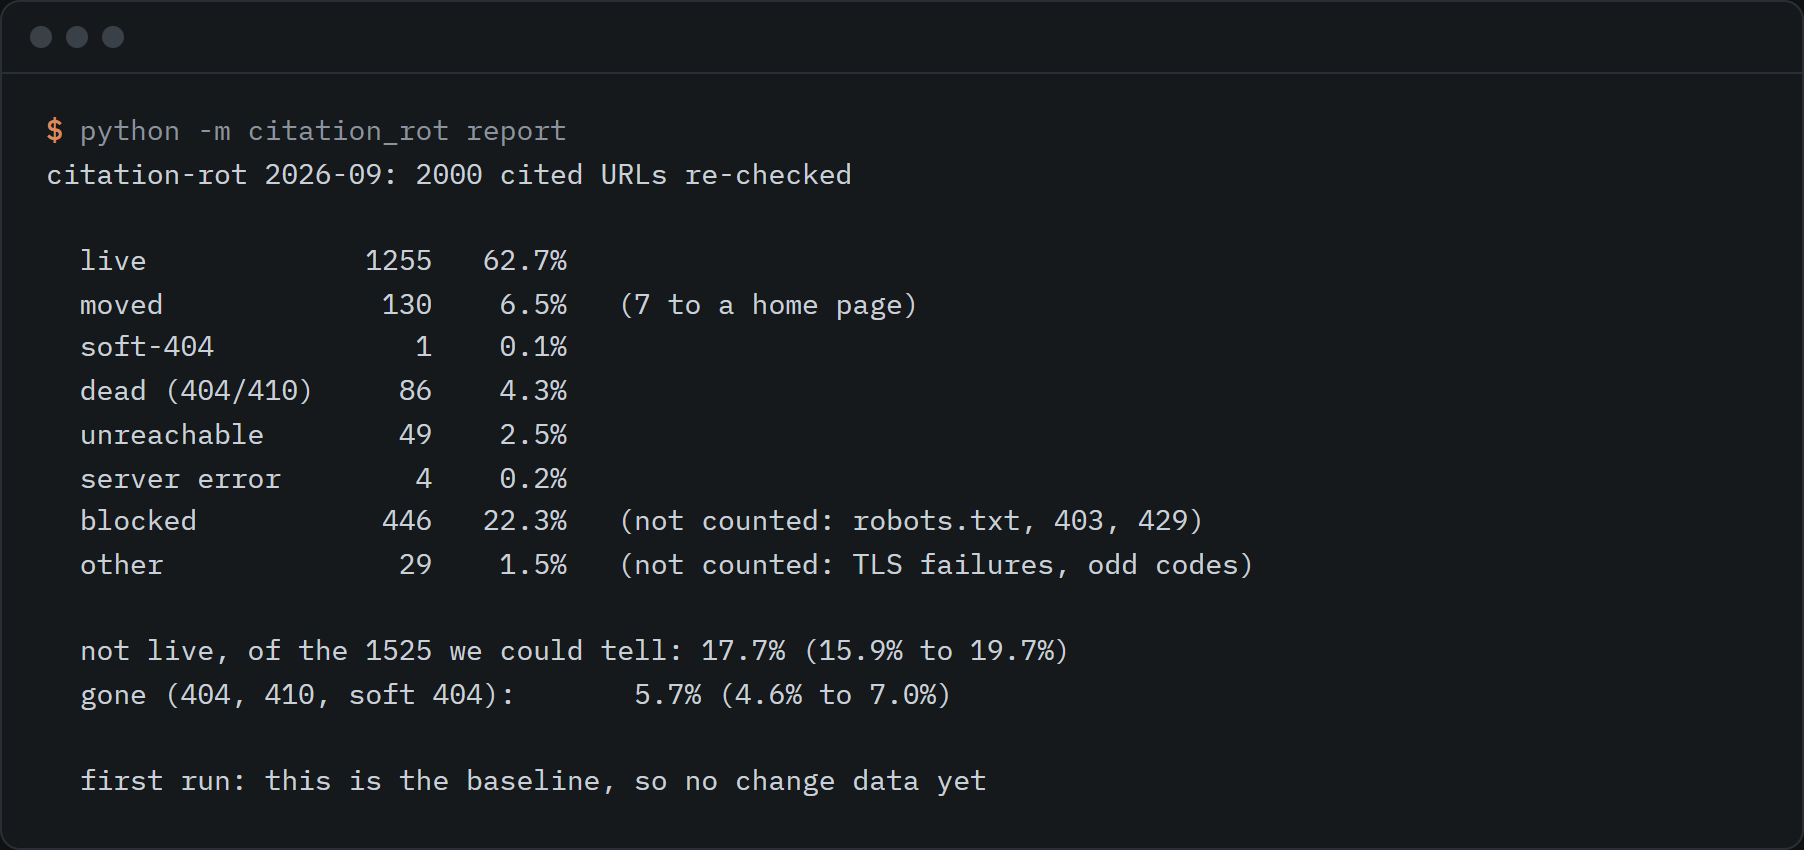
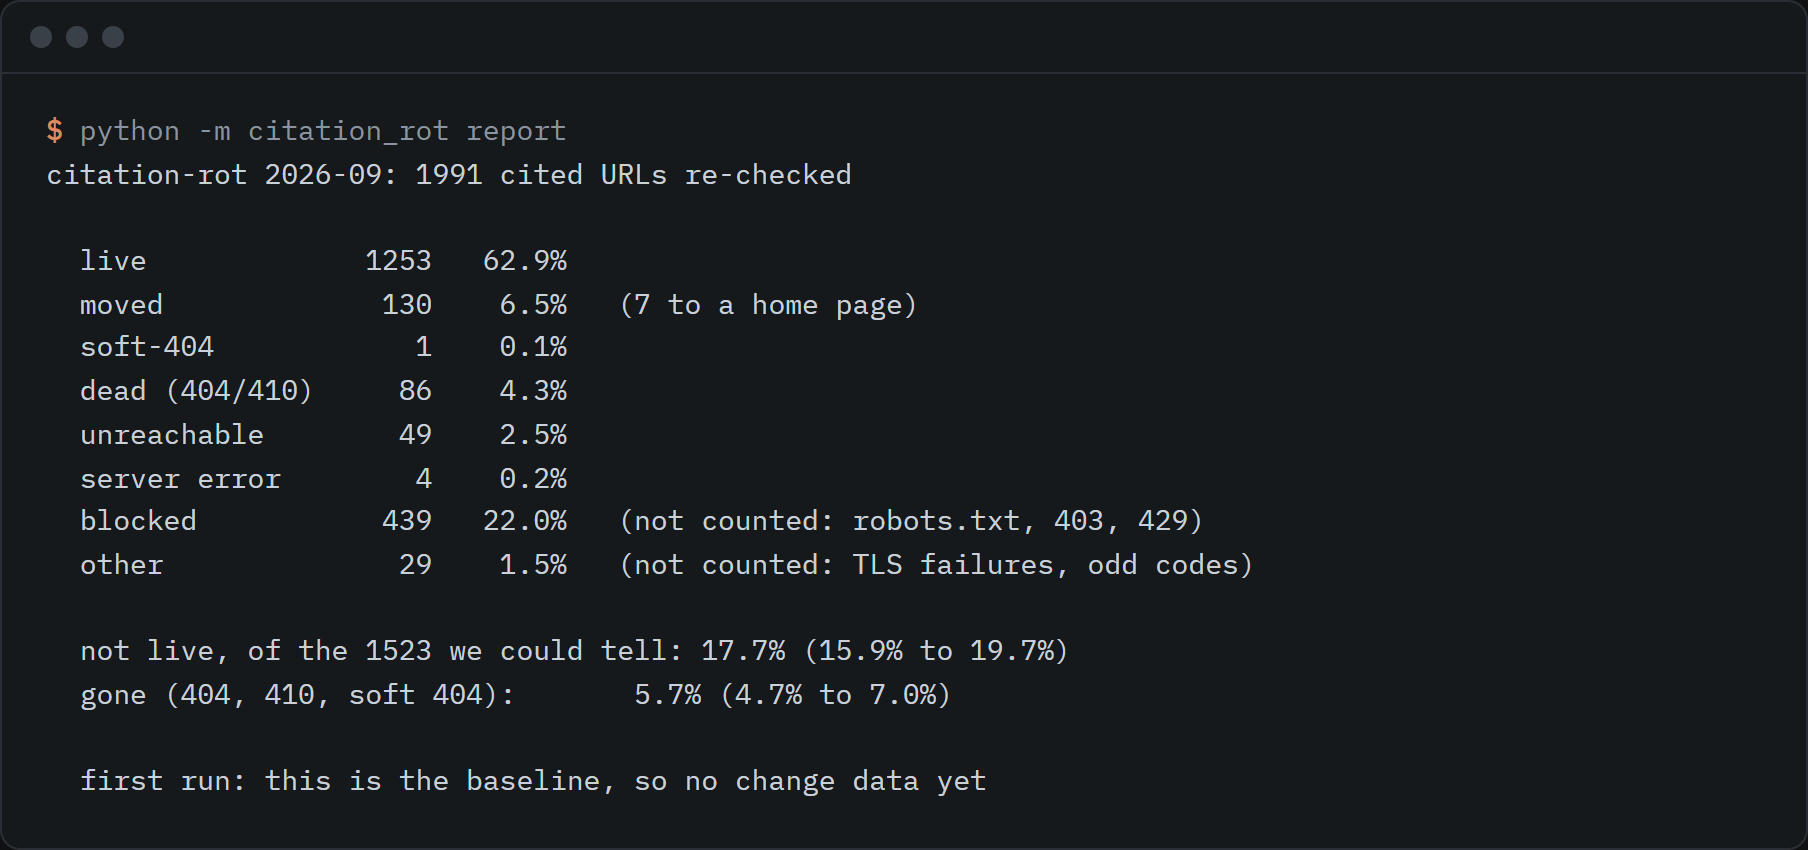
Privacy audit of the panel: remove 9 flagged URLs, extend the filter, state the seed data licence
Extend the seed privacy filter to sign-in and single-sign-on pages, Google bot-check pages, query strings with tokens or signatures, and code-host user pages. Remove the nine panel URLs it flags from the panel and the 2026-09 run (four Yandex SSO redirects, one Google bot-check token page, four pages about individuals), regenerate the report and image, and record the removal in panel.meta.json.

Document the Search Arena licence (prompts CC-BY-4.0, outputs under provider terms), add the dataset citation and revision to the README, and note the Perplexity and Google grounded-results terms in METHOD.md.

diff --git a/citation_rot/urls.py b/citation_rot/urls.py
@@ -15,9 +15,21 @@ EXCLUDED_HOST_SUFFIXES = (
     "about.me", "linktr.ee", "beacons.ai", "gravatar.com",
 )
 # Pages whose first two path segments name a person's profile or author page. Dropped and never stored.
-_PROFILE_SEGMENTS = {"profile", "profiles", "people", "person", "author", "authors", "user", "users", "member",
-                     "members", "u", "in", "athlete", "athletes", "pub", "whois"}
+_PROFILE_SEGMENTS = {"profile", "profiles", "people", "person", "persons", "author", "authors", "user", "users",
+                     "member", "members", "u", "in", "athlete", "athletes", "pub", "whois", "user-post-list"}
 _SENSITIVE_HOST_WORDS = ("porn", "xxx", "sex", "adult", "nude", "escort", "hentai", "onlyfans")
+# Added 30 Sep 2026 after the panel audit. Sign-in and single-sign-on pages, and bot-check pages, carry
+# one-time tokens and say nothing about a cited page.
+_LOGIN_HOST_PREFIXES = ("sso.", "passport.", "login.", "signin.", "auth.", "accounts.")
+_LOGIN_SEGMENTS = {"login", "signin", "sign-in", "log-in", "sso", "oauth", "oauth2", "authorize"}
+# Query parameters that carry a credential, a session or a signature. Exact names, lower case.
+_SECRET_PARAMS = {"token", "access_token", "id_token", "refresh_token", "auth", "auth_token", "authkey", "session",
+                  "sessionid", "session_id", "sess", "jsessionid", "phpsessid", "sig", "signature", "x-amz-signature",
+                  "x-amz-credential", "x-goog-signature", "password", "passwd", "pwd", "secret", "api_key", "apikey", "otp"}
+# A user's own page on a code host is a single path segment: github.com/<user>.
+_PROFILE_HOST_SINGLE_SEGMENT = ("github.com", "gitlab.com", "bitbucket.org")
+_RESERVED_SINGLE_SEGMENT = {"features", "pricing", "about", "explore", "topics", "marketplace", "sponsors", "enterprise",
+                            "security", "login", "join", "orgs", "collections", "trending", "readme", "customer-stories"}
 
 
 def is_tracking_param(name):
@@ -91,7 +103,18 @@ def excluded_reason(url):
         if host == s or host.endswith("." + s):
             return "excluded host (personal profile, login wall or redirect token)"
     segs = [s for s in unquote(p.path).lower().split("/") if s]
+    if host.startswith(_LOGIN_HOST_PREFIXES) or any(s in _LOGIN_SEGMENTS for s in segs[:2]):
+        return "sign-in or single-sign-on page"
+    if re.search(r"(^|\.)google\.[a-z.]+$", host) and segs[:1] == ["sorry"]:
+        return "bot-check page with a token"
+    if any(k.lower() in _SECRET_PARAMS for k, _ in parse_qsl(p.query, keep_blank_values=True)):
+        return "credential, session or signature in the query string"
+    if host.removeprefix("www.") in _PROFILE_HOST_SINGLE_SEGMENT and len(segs) == 1 and segs[0] not in _RESERVED_SINGLE_SEGMENT:
+        return "personal profile or author page"
     if any(s in _PROFILE_SEGMENTS for s in segs[:2]) or (segs and segs[0].startswith("@") and len(segs) == 1):
+        return "personal profile or author page"
+    # An author page can sit deeper than the second segment, as in amazon.com/stores/<name>/author/<id>.
+    if any(s in ("author", "authors") for s in segs[2:4]):
         return "personal profile or author page"
     if re.search(r"/wiki/(user|user_talk|special):", unquote(p.path).lower()):
         return "personal profile or author page"

diff --git a/tests/test_units.py b/tests/test_units.py
@@ -44,9 +44,26 @@ class UrlTests(unittest.TestCase):
                   "https://medium.com/@someone", "https://example.org/author/jane-doe/",
                   "https://en.wikipedia.org/wiki/User:Someone", "https://blueskystarterpack.com/starter-packs/x"):
             self.assertIsNotNone(excluded_reason(u), u)
+        for u in ("https://github.com/someuser", "https://www.worldcubeassociation.org/persons/2021ABCD01",
+                  "https://www.amazon.com/stores/Some-Name/author/B000000000",
+                  "https://forum.example.de/user-post-list/361-someone/"):
+            self.assertIsNotNone(excluded_reason(u), u)
         # an article by a named author is an ordinary page and stays
         self.assertIsNone(excluded_reason("https://medium.com/@someone/how-to-check-links-abc123"))
         self.assertIsNone(excluded_reason("https://example.org/blog/2025/link-rot"))
+        self.assertIsNone(excluded_reason("https://github.com/owner/repo"))
+        self.assertIsNone(excluded_reason("https://github.com/features"))
+
+    def test_login_bot_check_and_token_urls_are_dropped(self):
+        for u in ("https://sso.passport.yandex.ru/push?uuid=abc&retpath=https%3A%2F%2Fexample.org%2F",
+                  "https://www.google.com/sorry/index?continue=https%3A%2F%2Fwww.google.com%2F&q=EhAm",
+                  "https://example.org/report?token=abc123", "https://example.org/a?X-Amz-Signature=abc",
+                  "https://example.org/login?next=/a", "https://accounts.example.org/o/authorize/"):
+            self.assertIsNotNone(excluded_reason(u), u)
+        # an ordinary query string and a page that merely has "login" in its slug stay
+        self.assertIsNone(excluded_reason("https://example.org/watch?v=abc&t=10"))
+        self.assertIsNone(excluded_reason("https://example.org/blog/how-to-log-in-to-x"))
+        self.assertIsNone(excluded_reason("https://www.google.com/search?q=link+rot"))
 
 
 class PageTests(unittest.TestCase):

diff --git a/citation_rot/cli.py b/citation_rot/cli.py
@@ -53,7 +53,10 @@ def cmd_add(a):
 
 
 def cmd_panel(a):
-    seeds = store.load_seeds()
+    # Filter again at draw time, so a seed file harvested under older rules cannot put a URL
+    # that the privacy filter now refuses into a new cohort.
+    # Seeds on local hosts only exist in the test suite, which serves pages from 127.0.0.1.
+    seeds = [s for s in store.load_seeds() if excluded_reason(s["url"]) in (None, "not a public hostname")]
     existing = store.read_jsonl(store.panel_path())
     if existing and not a.extend:
         sys.exit("A panel already exists and is frozen. Use --extend to add a new cohort to it.")

diff --git a/README.md b/README.md
@@ -2,7 +2,7 @@
 
 A monthly re-check of URLs cited in published AI citation studies, recording dead, moved and changed pages.
 
-![Terminal output of the September 2026 citation-rot report: 2,000 cited URLs, 62.7% live, 6.5% moved, 4.3% dead, 22.3% blocked](docs/monthly-report.png)
+![Terminal output of the September 2026 citation-rot report: 1,991 cited URLs, 62.9% live, 6.5% moved, 4.3% dead, 22.0% blocked](docs/monthly-report.png)
 
 ```sh
 git clone https://github.com/rishsadh/citation-rot && cd citation-rot
@@ -15,7 +15,7 @@ Python 3.10 or newer. No dependencies. That prints the latest month from the fil
 
 On 24 July 2026 OtterlyAI published a study of 20,092,769 URLs cited by seven AI search engines and found that 19.3% were not live ([source](https://otterly.ai/blog/dead-citations-study/)). It is one snapshot, and the URL list is not published there. When I searched GitHub, npm and the web on 30 September 2026, I did not find a tool that re-checks a fixed set of cited URLs every month and publishes every record.
 
-This is a small version of that. It draws a panel of 2,000 URLs from a published dataset of AI search answers, freezes it, and re-checks the same URLs every month. Each month's result is one JSONL file in git, so the decay, the recoveries and the pages that changed under the same URL can be read from the history.
+This is a small version of that. It draws 2,000 URLs from a published dataset of AI search answers, removes nine that a privacy audit flagged (sign-in redirects, a bot-check token and pages about individuals), freezes the remaining 1,991 as the panel, and re-checks the same URLs every month. Each month's result is one JSONL file in git, so the decay, the recoveries and the pages that changed under the same URL can be read from the history.
 
 ## What the first run found
 
@@ -23,22 +23,22 @@ Checked on 30 September 2026. The URLs were cited in answers from 18 March to 13
 
 | | URLs | share |
 |---|---|---|
-| live | 1,255 | 62.7% |
+| live | 1,253 | 62.9% |
 | moved to a different page | 130 | 6.5% |
 | dead (404, 410 or a soft 404) | 87 | 4.4% |
 | unreachable or server error | 53 | 2.7% |
-| blocked (robots.txt, 403, 429) | 446 | 22.3% |
+| blocked (robots.txt, 403, 429) | 439 | 22.0% |
 | other (TLS failures, odd codes) | 29 | 1.5% |
 
-Of the 1,525 pages we could judge, 17.7% were not live (95% interval 15.9% to 19.7%) and 5.7% were gone (4.6% to 7.0%).
+Of the 1,523 pages we could judge, 17.7% were not live (95% interval 15.9% to 19.7%) and 5.7% were gone (4.7% to 7.0%).
 
 | engine family | URLs in the panel | not live, of those judged |
 |---|---|---|
-| google | 855 | 15.9% (13.3% to 18.8%) |
-| openai | 693 | 20.6% (17.3% to 24.4%) |
-| perplexity | 969 | 16.1% (13.7% to 18.9%) |
+| google | 849 | 15.9% (13.3% to 18.8%) |
+| openai | 691 | 20.7% (17.3% to 24.5%) |
+| perplexity | 968 | 16.1% (13.7% to 18.9%) |
 
-A URL cited by more than one engine family counts in each row, so the rows add up to more than 2,000.
+A URL cited by more than one engine family counts in each row, so the rows add up to more than 1,991.
 
 How to read these numbers:
 
@@ -66,7 +66,7 @@ Each URL ends up as one of `live`, `moved`, `soft-404`, `dead`, `unreachable`, `
 
 To add your own URLs, give `add` a list or `--from-file urls.txt`. They land in `seeds/manual.jsonl` with where and when they were cited. The panel is frozen on purpose, so new URLs only join it as a new cohort with `panel --extend`. `add` skips local addresses, credentials in URLs and personal profile pages.
 
-`harvest` needs the network and rebuilds `seeds/search-arena-v1-7k.jsonl`, about 30 MB, which is not committed. `panel` draws from it with a fixed seed, so the committed panel can be reproduced.
+`harvest` needs the network and rebuilds `seeds/search-arena-v1-7k.jsonl`, about 30 MB, which is not committed. `panel` draws from it with a fixed seed and applies the privacy filter again at draw time. The committed 2026-09 panel was drawn before the filter gained its latest rules and then had nine URLs removed, so a fresh draw will not reproduce it exactly; `data/panel.jsonl` is the record.
 
 How it behaves on other people's servers: it names itself in the user agent, reads `robots.txt` for every host and every redirect hop, waits at least 2 seconds between requests to one host, reads at most 256 KB per page, and never fetches what `robots.txt` disallows. It makes no attempt to get past a 403 or a paywall.
 
@@ -81,10 +81,26 @@ How it behaves on other people's servers: it names itself in the user agent, rea
 - It does not catch every dead page. YouTube gets a second check through its oEmbed endpoint, because YouTube serves a normal page for a removed video. Other sites that answer 200 for gone pages count as live. Soft-404 detection is a short list of English phrases.
 - It does not show what a page said when it was cited. It only knows that the text changed since the last check.
 - It runs from one machine on one network. Geo-blocked pages show as unreachable or blocked.
-- The 2,000-URL panel is small next to studies that check millions of URLs. The intervals assume a random sample of the seeds and do not cover where the seeds came from.
+- The 1,991-URL panel is small next to studies that check millions of URLs. The intervals assume a random sample of the seeds and do not cover where the seeds came from.
 
-[METHOD.md](METHOD.md) has the full method, the status rules and the known limits. The Search Arena prompts are CC-BY-4.0 and its model outputs fall under the providers' terms, so this repo keeps only cited URLs, the answer date and the engine family.
+[METHOD.md](METHOD.md) has the full method, the status rules and the known limits.
+
+## Data source and terms
+
+The seed URLs come from the [Search Arena dataset](https://huggingface.co/datasets/lmarena-ai/search-arena-v1-7k) (`lmarena-ai/search-arena-v1-7k`, revision `06865038ceb415c1942e58bff8f14150cbc9fbcd`), 7,000 votes collected by LMArena from 18 March to 13 April 2025. Its card says user prompts are CC-BY-4.0 and model outputs are governed by the terms of the respective model providers. This repo stores no prompt and no answer text. It keeps only each cited URL, the date of the answer and the engine family (OpenAI, Perplexity or Google), and the engine family is shown next to every URL. The URLs come from model output, so the provider terms apply to them and CC-BY-4.0 does not. Read the licence section of [METHOD.md](METHOD.md) before reusing the data, in particular the note on Google's terms for grounded results.
+
+Citation given on the dataset card:
+
+```bibtex
+@misc{searcharena2025,
+  title = {Introducing the Search Arena: Evaluating Search-Enabled AI},
+  url = {https://blog.lmarena.ai/blog/2025/search-arena/},
+  author = {Mihran Miroyan and Tsung-Han Wu and Logan Kenneth King and Tianle Li and Anastasios N. Angelopoulos and Wei-Lin Chiang and Narges Norouzi and Joseph E. Gonzalez},
+  month = {April},
+  year = {2025}
+}
+```
 
 ## Licence
 
-MIT. By [@rishsadh](https://github.com/rishsadh).
+MIT, for this repo's code and the data files it publishes. It does not change the terms above. By [@rishsadh](https://github.com/rishsadh).

diff --git a/METHOD.md b/METHOD.md
@@ -31,9 +31,53 @@ The models in the dataset are API versions of search-enabled models (for example
 Dropped at harvest time, and never stored: links on social and login-walled hosts (LinkedIn,
 Facebook, Instagram, X, TikTok, Telegram, The Org and similar), personal profile and author pages
 (`/profile/`, `/author/`, `/people/`, `@handle` pages and the like), redirect tokens, addresses with
-credentials or email addresses, non-public hostnames, and host names with sensitive words. The
-filter is a path and host list, so a few personal pages will still get through. The drop counts
-are in `seeds/search-arena-v1-7k.meta.json`.
+credentials or email addresses, sign-in and single-sign-on pages, bot-check pages, query strings
+that carry a token, session or signature, a user's own page on a code host (`github.com/<user>`),
+non-public hostnames, and host names with sensitive words. The filter is a path and host list, so
+a few personal pages will still get through. The drop counts are in
+`seeds/search-arena-v1-7k.meta.json`, which describes the harvest made under the first set of
+rules. The same filter runs again when a panel is drawn.
+
+On 30 September 2026 the panel was audited against the filter and nine URLs were removed from the
+panel and from the 2026-09 run: four Yandex single-sign-on redirects that carry a per-request
+identifier, one Google bot-check page with a token, and four pages about individuals (a
+competitor profile on a competition site, an author store page, a forum post list for one member
+and a code-host user page). They were not replaced. Nothing else was changed. The audit also
+looked for email addresses, credentials, session parameters and login-walled pages; a few other
+URLs are kept on purpose and listed under the known limits below.
+
+### Licence and terms of the seed data
+
+Checked on 30 September 2026. The Hugging Face dataset card for
+`lmarena-ai/search-arena-v1-7k` (revision `06865038ceb415c1942e58bff8f14150cbc9fbcd`) says, in its
+License section, that user prompts are licensed under CC-BY-4.0 and that model outputs are
+governed by the terms of use set by the respective model providers. The card's metadata header
+carries no `license` field, so that sentence is the whole statement. The card gives a citation for
+the Search Arena blog post; it is repeated in the README.
+
+What that means for this repo:
+
+- The CC-BY-4.0 grant covers prompts. This repo never stores or publishes a prompt, so the
+  attribution duty of that licence is not triggered. Attribution is given anyway.
+- The cited URLs come from the models' answers and search traces, which are model output, so
+  the providers' terms apply to them, not CC-BY-4.0. The repo keeps the URL, the date of the
+  answer and the engine family, and names the engine family next to every URL.
+- OpenAI's terms of use for its consumer services say the user owns the output. The API and
+  business terms for the models in the dataset were not read.
+- Perplexity's terms of service say a user may not publish output without clearly citing the
+  service. Every URL here carries its engine family, and the README names Perplexity as a source.
+- Google's Gemini API additional terms for Grounding with Google Search forbid caching,
+  syndicating or analysing grounded results, and forbid collecting the links in them to identify
+  pages to crawl. Those terms bind the developer who called the API, which was not this project,
+  and whether they reach a downstream reader of a public dataset is a legal question this repo
+  does not answer. The panel does contain URLs that appear to come from Gemini grounding models
+  (the `google` engine family, which includes `gemini-2.5-pro-grounding`) and this tool fetches
+  them. A reader who needs to stay inside
+  Google's terms should drop the `google` rows and the `multi` rows that include `google`.
+- A URL is a pointer to a third party's page. Nothing from the pages is stored except the status,
+  the redirect chain, the title and a simhash of the text.
+
+This is a reading of published terms by the maintainer, not legal advice.
 
 ## The panel
 
@@ -41,7 +85,9 @@ Re-checking all seeds every month would be slow and impolite, so a panel is draw
 frozen in `data/panel.jsonl`. The same URLs are checked every month, because decay only means
 something for a fixed set.
 
-- Random sample, fixed seed, so the draw can be reproduced from the seeds.
+- Random sample, fixed seed, so a draw can be repeated from the same seeds and filter. The 2026-09
+  draw predates the current filter rules and lost nine URLs afterwards, so it is recorded in
+  `data/panel.jsonl` rather than reproduced.
 - At most 25 URLs per host, so YouTube and Wikipedia do not fill the panel.
 - Equal quotas per engine family. One engine returns far more URLs than the others, so a plain
   sample would tell you almost nothing about the rest. The headline figure is therefore not
@@ -118,7 +164,7 @@ third of the corpus so far. Differences that matter when you compare numbers:
 
 | | OtterlyAI | this repo |
 |---|---|---|
-| Sample | 20M+ URLs | 2,000 URLs, same ones every month |
+| Sample | 20M+ URLs | 1,991 URLs (2,000 drawn, 9 removed by the privacy filter), same ones every month |
 | Checks | one snapshot | monthly, so decay and recovery are visible |
 | Cited when | one month of 2026 | March to April 2025 (about 17 months before the first check) |
 | Redirects | counted as not live | only counted as moved if the page differs |
@@ -149,3 +195,8 @@ headline rate.
   are counted as live or moved.
 - One vantage point, one network. Geo-blocked pages show as unreachable or blocked.
 - Not every cited URL was live when it was first cited. Some may never have existed.
+- The privacy filter keeps articles under an author's handle (for example Medium posts) and
+  reference pages about public figures (for example an IMDb name page or an athlete biography),
+  because they are ordinary published pages. Two URLs redirect to a login page, a venue listing
+  and a legal database entry, and are counted as blocked. They are kept because the login wall is
+  the finding.

diff --git a/reports/2026-09.md b/reports/2026-09.md
@@ -1,24 +1,24 @@
 # Citation rot, 2026-09
 
 ```text
-citation-rot 2026-09: 2000 cited URLs re-checked
+citation-rot 2026-09: 1991 cited URLs re-checked
 
-  live             1255   62.7%
+  live             1253   62.9%
   moved             130    6.5%   (7 to a home page)
   soft-404            1    0.1%
   dead (404/410)     86    4.3%
   unreachable        49    2.5%
   server error        4    0.2%
-  blocked           446   22.3%   (not counted: robots.txt, 403, 429)
+  blocked           439   22.0%   (not counted: robots.txt, 403, 429)
   other              29    1.5%   (not counted: TLS failures, odd codes)
 
-  not live, of the 1525 we could tell: 17.7% (15.9% to 19.7%)
-  gone (404, 410, soft 404):       5.7% (4.6% to 7.0%)
+  not live, of the 1523 we could tell: 17.7% (15.9% to 19.7%)
+  gone (404, 410, soft 404):       5.7% (4.7% to 7.0%)
 
   first run: this is the baseline, so no change data yet
 ```
 
-Panel size 2000. Checked with `citation-rot/0.1.0 (+https://github.com/rishsadh/citation-rot; link-status research; honours robots.txt)`, 2.0 seconds between requests to one host, robots.txt honoured. Rates exclude blocked and other, because those pages could not be judged. Read `METHOD.md` before quoting a number.
+Panel size 1991. Checked with `citation-rot/0.1.0 (+https://github.com/rishsadh/citation-rot; link-status research; honours robots.txt)`, 2.0 seconds between requests to one host, robots.txt honoured. Rates exclude blocked and other, because those pages could not be judged. Read `METHOD.md` before quoting a number.
 
 ## By engine family
 
@@ -26,26 +26,26 @@ A URL cited by several engine families is counted under each, so these rows add 
 
 | engine | URLs | live | moved | gone | unreachable or 5xx | blocked or other | not live, of those we could tell (95% interval) |
 |---|---|---|---|---|---|---|---|
-| google | 855 | 568 | 54 | 40 | 13 | 180 | 15.9% (13.3% to 18.8%) |
-| openai | 693 | 389 | 41 | 36 | 24 | 203 | 20.6% (17.3% to 24.4%) |
-| perplexity | 969 | 656 | 69 | 28 | 29 | 187 | 16.1% (13.7% to 18.9%) |
+| google | 849 | 567 | 54 | 40 | 13 | 175 | 15.9% (13.3% to 18.8%) |
+| openai | 691 | 388 | 41 | 36 | 24 | 202 | 20.7% (17.3% to 24.5%) |
+| perplexity | 968 | 656 | 69 | 28 | 29 | 186 | 16.1% (13.7% to 18.9%) |
 
 ## By month first cited
 
 | first cited | URLs | live | moved | gone | unreachable or 5xx | blocked or other | not live, of those we could tell (95% interval) |
 |---|---|---|---|---|---|---|---|
-| 2025-03 | 761 | 474 | 46 | 32 | 27 | 182 | 18.1% (15.2% to 21.5%) |
-| 2025-04 | 1239 | 781 | 84 | 55 | 26 | 293 | 17.4% (15.2% to 20.0%) |
+| 2025-03 | 760 | 474 | 46 | 32 | 27 | 181 | 18.1% (15.2% to 21.5%) |
+| 2025-04 | 1231 | 779 | 84 | 55 | 26 | 287 | 17.5% (15.2% to 20.0%) |
 
 ## Busiest hosts in the panel
 
 | host | URLs | live | moved | gone | unreachable or 5xx | blocked or other | not live, of those we could tell (95% interval) |
 |---|---|---|---|---|---|---|---|
 | en.wikipedia.org | 25 | 25 | 0 | 0 | 0 | 0 | 0.0% (0.0% to 13.3%) |
-| www.google.com | 25 | 0 | 0 | 0 | 0 | 25 | n/a |
 | www.reddit.com | 25 | 0 | 0 | 0 | 0 | 25 | n/a |
 | www.youtube.com | 25 | 25 | 0 | 0 | 0 | 0 | 0.0% (0.0% to 13.3%) |
-| github.com | 24 | 22 | 0 | 2 | 0 | 0 | 8.3% (2.3% to 25.8%) |
+| www.google.com | 24 | 0 | 0 | 0 | 0 | 24 | n/a |
+| github.com | 23 | 21 | 0 | 2 | 0 | 0 | 8.7% (2.4% to 26.8%) |
 | www.reuters.com | 18 | 0 | 0 | 0 | 0 | 18 | n/a |
 | apnews.com | 12 | 0 | 0 | 0 | 0 | 12 | n/a |
 | arxiv.org | 12 | 12 | 0 | 0 | 0 | 0 | 0.0% (0.0% to 24.3%) |
@@ -59,8 +59,8 @@ A URL cited by several engine families is counted under each, so these rows add 
 
 ## Why pages were blocked
 
-- HTTP 403: 314
-- robots.txt disallows: 107
+- HTTP 403: 312
+- robots.txt disallows: 102
 - HTTP 406: 6
 - HTTP 401: 4
 - HTTP 405: 3
